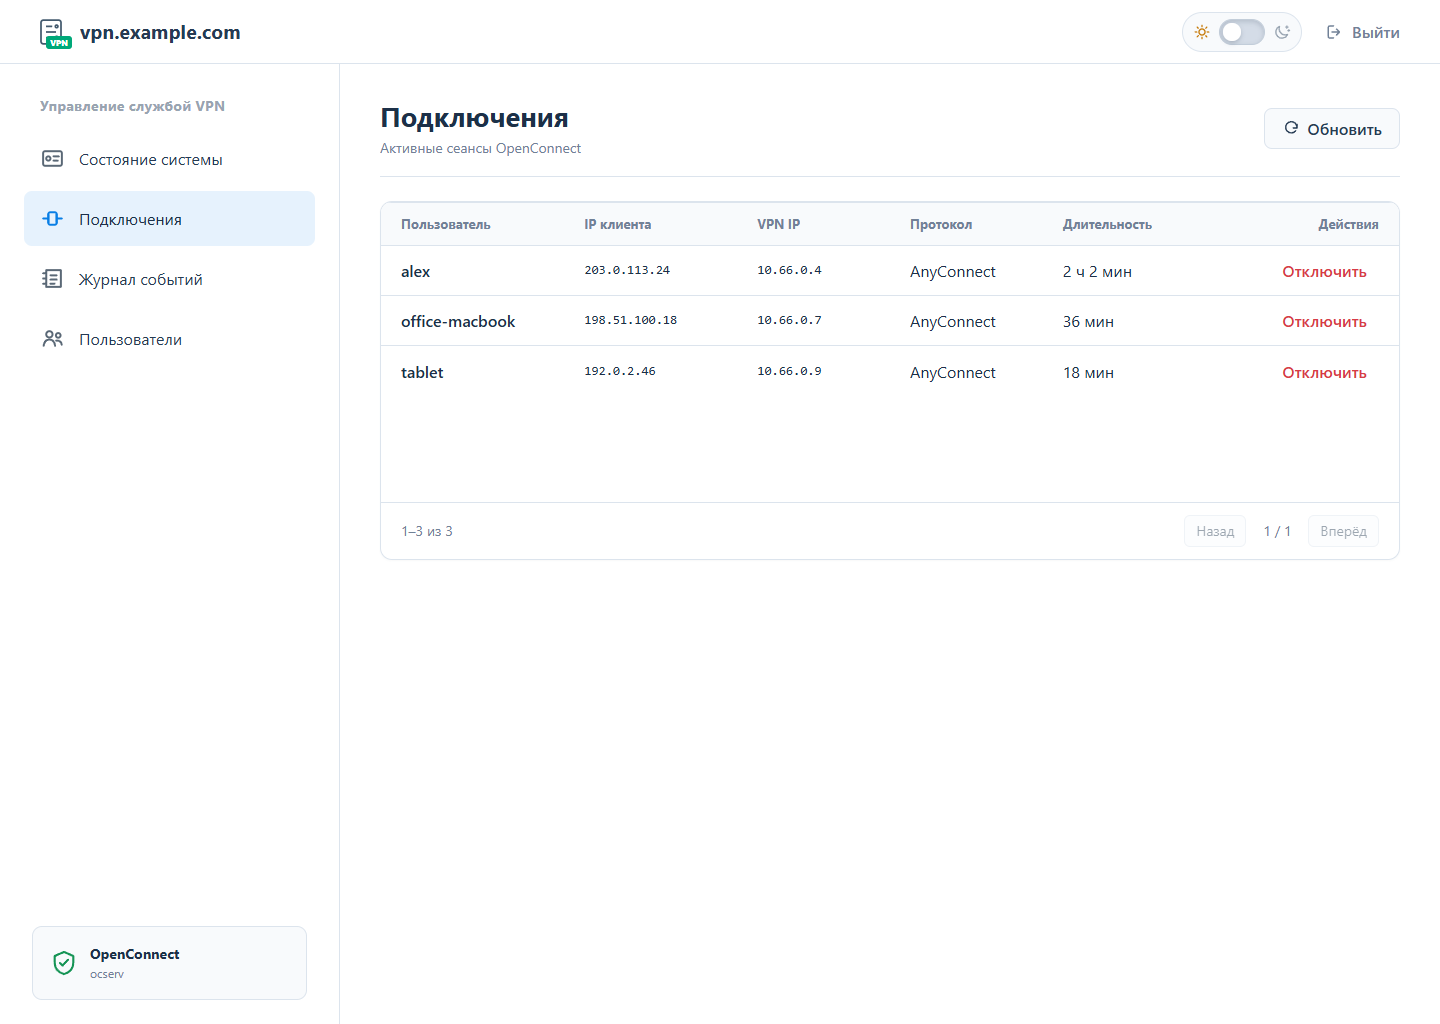
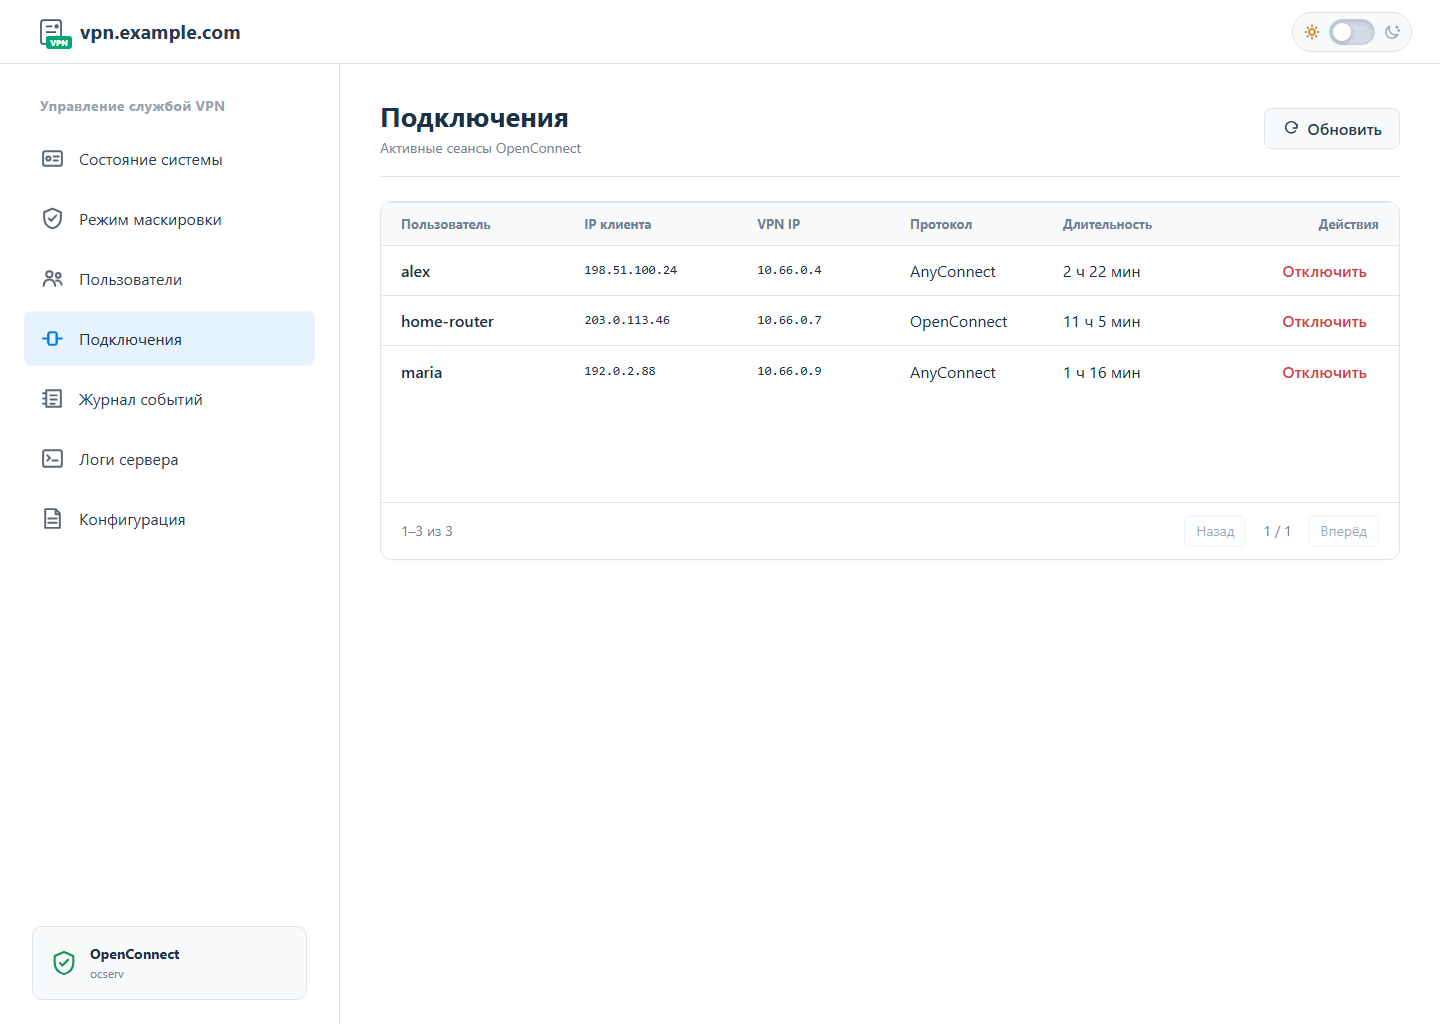
Update README and UI screenshots

diff --git a/README.md b/README.md
@@ -10,10 +10,12 @@
 
 - установка ocserv, Docker и необходимых системных пакетов на чистый Debian или Ubuntu;
 - выпуск и автоматическое обновление TLS-сертификата Let's Encrypt;
-- опциональный режим Camouflage, скрывающий VPN за ответами обычного веб-сервера;
-- создание пользователей с безопасными одноразовыми паролями и вывод начальных VPN-реквизитов после установки;
-- просмотр состояния сервера, активных подключений и журнала событий;
+- нативный и продвинутый режимы Camouflage с локальными сайтами-заглушками;
+- создание и удаление пользователей, смена паролей, импорт и экспорт учётных записей;
+- одноразовые профили подключения для OpenConnect, телефонов и роутеров;
+- просмотр состояния сервера, активных подключений, журнала событий и постраничных логов контейнеров;
 - ограниченный журнал VPN: при превышении 4 MiB сохраняются последние 10 000 событий;
+- просмотр, скачивание и безопасное редактирование `ocserv.conf` с проверкой перед перезапуском;
 - обновление и откат серверного образа без ручного редактирования конфигурации;
 - отдельная веб-панель без публичного HTTP-порта и доступа к Docker socket;
 - интерактивное меню и команды для автоматизации.
@@ -23,7 +25,7 @@
 - VPS с Debian или Ubuntu и архитектурой `amd64`;
 - доступ `root` или возможность выполнить команду через `sudo`;
 - домен с A-записью, направленной на публичный IP сервера;
-- доступные TCP/UDP-порты VPN и рабочее SSH-подключение.
+- доступные порты VPN и рабочее SSH-подключение; продвинутая маскировка требует TCP/443 и отключает UDP/DTLS.
 
 > Установка меняет правила firewall и перезапускает сетевые сервисы. Не закрывайте текущую SSH-сессию до завершения проверки VPN.
 
@@ -141,9 +143,9 @@ bash <(curl -Ls https://raw.githubusercontent.com/khorevaa/ocserv-vps/develop/in
 
 ## Веб-панель
 
-Панель позволяет проверить сервер и сертификат, управлять пользователями, видеть активные подключения и завершать выбранные сессии.
+Панель показывает состояние сервера и Camouflage, управляет пользователями, завершает выбранные VPN-сессии, выводит журналы контейнеров и позволяет безопасно редактировать `ocserv.conf`.
 
-На странице состояния можно скопировать доменное имя VPN, готовую SSH-команду подключения к закрытой панели и секрет доступа. Карточка TLS показывает издателя сертификата и позволяет запросить принудительный перевыпуск через Let's Encrypt. Операция выполняется через изолированный системный мост systemd на хосте: контейнер панели по-прежнему работает без сети и сокета Docker.
+На странице состояния можно скопировать доменное имя VPN, готовую SSH-команду подключения к закрытой панели и секрет доступа. Карточка TLS показывает издателя сертификата и позволяет запросить принудительный перевыпуск через Let's Encrypt. Хостовые операции и сбор логов выполняются через изолированные systemd-мосты с ограниченным набором действий: контейнеры панели по-прежнему работают без сети и сокета Docker.
 
 ### Защищённый вход
 
@@ -153,6 +155,22 @@ bash <(curl -Ls https://raw.githubusercontent.com/khorevaa/ocserv-vps/develop/in
 
 ![Состояние VPN-сервера, сертификата и панели управления](docs/images/ui-overview.png)
 
+### Режим маскировки
+
+![Параметры продвинутого режима Camouflage](docs/images/ui-camouflage.png)
+
+Раздел показывает публичную точку входа, состояние TCP и UDP/DTLS, маршрут через Nginx и выбранный источник сайта-заглушки. Секрет Camouflage раскрывается только отдельным защищённым запросом, который записывается в журнал аудита UI.
+
+### Управление пользователями
+
+![Управление пользователями VPN](docs/images/ui-users.png)
+
+Пользователя можно создать, удалить или выдать ему новый пароль; при удалении панель также завершает активные сессии. Кнопки «Экспорт» и «Импорт» переносят пользователей между установками без смены их паролей. По умолчанию импорт объединяет пользователей с существующим списком; режим полной замены включается отдельно и удаляет отсутствующих в файле пользователей. Экспортированный JSON содержит хеши паролей — храните его как чувствительную резервную копию.
+
+После создания пользователя или смены пароля панель один раз показывает пароль, команду OpenConnect CLI и готовую текстовую конфигурацию для телефона или роутера. Открытый пароль не сохраняется панелью.
+
+![Одноразовый профиль подключения нового пользователя](docs/images/ui-credentials.png)
+
 ### Активные подключения
 
 ![Активные подключения к VPN](docs/images/ui-connections.png)
@@ -161,13 +179,17 @@ bash <(curl -Ls https://raw.githubusercontent.com/khorevaa/ocserv-vps/develop/in
 
 ![Журнал подключений и отключений VPN](docs/images/ui-journal.png)
 
-### Управление пользователями
+### Логи сервера
 
-![Управление пользователями VPN](docs/images/ui-users.png)
+![Постраничный просмотр логов контейнеров](docs/images/ui-logs.png)
 
-После создания пользователя или смены пароля панель один раз показывает готовую текстовую конфигурацию подключения: адрес сервера, протокол AnyConnect, имя пользователя и пароль. Её можно скопировать или скачать как `.txt` для передачи на телефон или роутер. Открытый пароль не сохраняется панелью.
+Снимок логов контейнеров VPN server, Control и Web UI можно фильтровать по источнику, сортировать по времени и просматривать постранично. Панели не нужен доступ к Docker socket.
 
-Кнопки «Экспорт» и «Импорт» переносят пользователей между установками без смены их паролей. По умолчанию импорт объединяет пользователей с существующим списком; режим полной замены включается отдельно и удаляет отсутствующих в файле пользователей. Экспортированный JSON содержит хеши паролей — храните его как чувствительную резервную копию.
+### Конфигурация ocserv
+
+![Просмотр конфигурации ocserv](docs/images/ui-configuration.png)
+
+По умолчанию `ocserv.conf` открыт только для просмотра. Файл можно скачать, отредактировать или загрузить заново; перед атомарной заменой панель проверяет ревизию и синтаксис, а при неудачном перезапуске восстанавливает предыдущую конфигурацию.
 
 Панель не открывает TCP-порт на VPS. Для доступа выполните:
 

diff --git a/README_EN.md b/README_EN.md
@@ -10,10 +10,12 @@ A ready-to-run [ocserv](https://www.infradead.org/ocserv/) VPN server for your o
 
 - installs ocserv, Docker, and required system packages on a fresh Debian or Ubuntu server;
 - obtains and renews a Let's Encrypt TLS certificate;
-- optionally enables Camouflage so unauthorized requests resemble an ordinary web server;
-- creates VPN users with secure one-time passwords and prints the initial VPN credentials after installation;
-- displays server health, active connections, and the event journal;
+- supports native and advanced Camouflage with locally served cover sites;
+- creates and deletes users, rotates passwords, and imports or exports accounts;
+- produces one-time connection profiles for OpenConnect, phones, and routers;
+- displays server health, active connections, the event journal, and paginated container logs;
 - bounds the VPN journal: after 4 MiB it retains the newest 10,000 events;
+- views, downloads, and safely edits `ocserv.conf`, validating it before restart;
 - updates and rolls back the server image without manual configuration edits;
 - provides a web panel without a public HTTP port or Docker socket access;
 - supports both an interactive menu and automation-friendly commands.
@@ -23,7 +25,7 @@ A ready-to-run [ocserv](https://www.infradead.org/ocserv/) VPN server for your o
 - an `amd64` VPS running Debian or Ubuntu;
 - root access or permission to run commands with `sudo`;
 - a domain with an A record pointing to the server's public IP;
-- available TCP/UDP VPN ports and a working SSH connection.
+- available VPN ports and a working SSH connection; advanced Camouflage requires TCP/443 and disables UDP/DTLS.
 
 > Installation changes firewall rules and restarts network services. Keep the current SSH session open until the VPN check has completed.
 
@@ -141,9 +143,9 @@ Run `sudo ocserv-vps` without arguments to open the interactive menu.
 
 ## Web panel
 
-The panel displays server and certificate health, manages users, lists active connections, and can terminate selected sessions.
+The panel displays server and Camouflage status, manages users, terminates selected VPN sessions, shows container logs, and safely edits `ocserv.conf`.
 
-The status page can copy the VPN domain, the ready-to-use SSH command for the private panel, and the access secret. The TLS card shows the certificate issuer and can request forced renewal through Let's Encrypt. Renewal runs through an isolated host-level systemd bridge, so the panel containers remain without network or Docker socket access.
+The status page can copy the VPN domain, the ready-to-use SSH command for the private panel, and the access secret. The TLS card shows the certificate issuer and can request forced renewal through Let's Encrypt. Host operations and log collection use isolated, narrowly scoped systemd bridges, so the panel containers remain without network or Docker socket access.
 
 ### Protected access
 
@@ -153,6 +155,22 @@ The status page can copy the VPN domain, the ready-to-use SSH command for the pr
 
 ![VPN server, certificate, and management panel status](docs/images/ui-overview.png)
 
+### Camouflage status
+
+![Advanced Camouflage mode details](docs/images/ui-camouflage.png)
+
+This view shows the public endpoint, TCP and UDP/DTLS state, Nginx routing, and the selected cover-site source. The Camouflage secret is revealed only through a separate protected request recorded in the UI audit log.
+
+### User management
+
+![Managing VPN users](docs/images/ui-users.png)
+
+Users can be created, deleted, or issued a new password; deletion also terminates their active sessions. Export and Import move users between installations without changing passwords. Import merges with the existing list by default; full replacement must be enabled explicitly and removes users absent from the file. The exported JSON contains password hashes and must be handled as a sensitive backup.
+
+After creating a user or rotating a password, the panel displays the password once, an OpenConnect CLI command, and a ready-to-use text profile for a phone or router. The panel does not persist the plaintext password.
+
+![One-time connection profile for a new user](docs/images/ui-credentials.png)
+
 ### Active connections
 
 ![Active VPN connections](docs/images/ui-connections.png)
@@ -161,13 +179,17 @@ The status page can copy the VPN domain, the ready-to-use SSH command for the pr
 
 ![VPN connection and disconnection journal](docs/images/ui-journal.png)
 
-### User management
+### Server logs
 
-![Managing VPN users](docs/images/ui-users.png)
+![Paginated container log viewer](docs/images/ui-logs.png)
 
-After creating a user or rotating a password, the panel displays a one-time text connection profile with the server address, AnyConnect protocol, username, and password. It can be copied or downloaded as a `.txt` file for a phone or router. The panel does not persist the plaintext password.
+A snapshot of VPN server, Control, and Web UI container logs can be filtered by source, sorted by time, and viewed page by page. The panel does not need access to the Docker socket.
 
-The Export and Import actions move users between installations without changing their passwords. Import merges with the existing list by default; full replacement must be enabled explicitly and removes users absent from the file. The exported JSON contains password hashes and must be handled as a sensitive backup.
+### ocserv configuration
+
+![Viewing the ocserv configuration](docs/images/ui-configuration.png)
+
+By default, `ocserv.conf` opens read-only. It can be downloaded, edited, or replaced with an uploaded file; before an atomic replacement, the panel checks the revision and syntax, and restores the previous configuration if restart fails.
 
 The panel does not expose a TCP port on the VPS. To connect, run:
 
